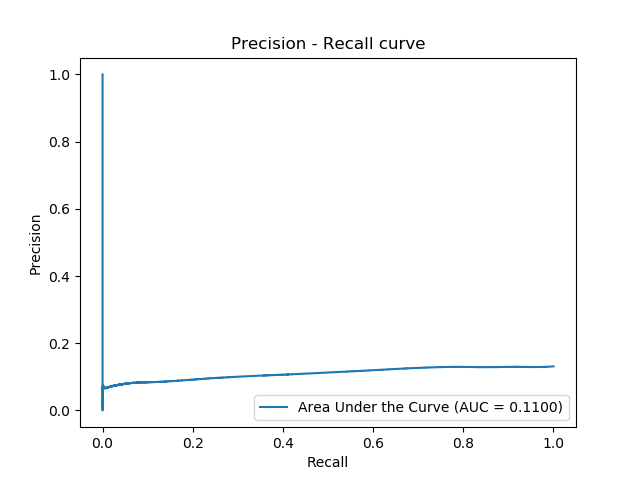
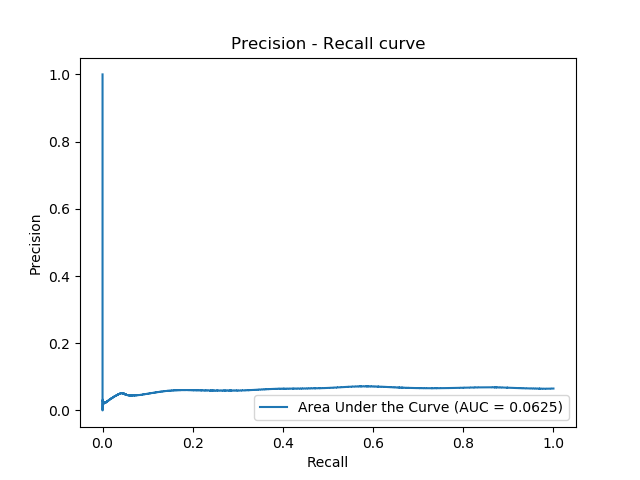
debugging retinal_test

Changed region(s): [[0.1562, 0.75, 0.875, 0.875]]

diff --git a/src/retinaNN_predict.py b/src/retinaNN_predict.py
@@ -166,9 +166,9 @@ print("y scores pixels: " +str(y_scores.shape[0]) +" (radius 270: 270*270*3.14==
 print("y true pixels: " +str(y_true.shape[0]) +" (radius 270: 270*270*3.14==228906), including background around retina: " +str(gtruth_masks.shape[2]*gtruth_masks.shape[3]*gtruth_masks.shape[0])+" (584*565==329960)")
 
 #Area under the ROC curve
-print(type(y_true),type(y_true[0])
-fpr, tpr, thresholds = roc_curve((y_true), y_scores)
-AUC_ROC = roc_auc_score(y_true, y_scores)
+print(y_true[0:2][:])
+fpr, tpr, thresholds = roc_curve(y_true.astype(int), y_scores)  #round() or int()?
+AUC_ROC = roc_auc_score(y_true.astype(int), y_scores)
 # test_integral = np.trapz(tpr,fpr) #trapz is numpy integration
 print("\nArea under the ROC curve: " +str(AUC_ROC))
 roc_curve =plt.figure()
@@ -180,7 +180,7 @@ plt.legend(loc="lower right")
 plt.savefig(path_experiment+"ROC.png")
 
 #Precision-recall curve
-precision, recall, thresholds = precision_recall_curve(y_true, y_scores)
+precision, recall, thresholds = precision_recall_curve(y_true.astype(int), y_scores)
 precision = np.fliplr([precision])[0]  #so the array is increasing (you won't get negative AUC)
 recall = np.fliplr([recall])[0]  #so the array is increasing (you won't get negative AUC)
 AUC_prec_rec = np.trapz(precision,recall)
@@ -202,7 +202,7 @@ for i in range(y_scores.shape[0]):
         y_pred[i]=1
     else:
         y_pred[i]=0
-confusion = confusion_matrix(y_true, y_pred)
+confusion = confusion_matrix(y_true.astype(int), y_pred)
 print(confusion)
 accuracy = 0
 if float(np.sum(confusion))!=0:
@@ -222,11 +222,11 @@ if float(confusion[1,1]+confusion[0,1])!=0:
 print("Precision: " +str(precision))
 
 #Jaccard similarity index
-jaccard_index = jaccard_similarity_score(y_true, y_pred, normalize=True)
+jaccard_index = jaccard_similarity_score(y_true.astype(int), y_pred, normalize=True)
 print("\nJaccard similarity score: " +str(jaccard_index))
 
 #F1 score
-F1_score = f1_score(y_true, y_pred, labels=None, average='binary', sample_weight=None)
+F1_score = f1_score(y_true.astype(int), y_pred, labels=None, average='binary', sample_weight=None)
 print("\nF1 score (F-measure): " +str(F1_score))
 
 #Save the results
